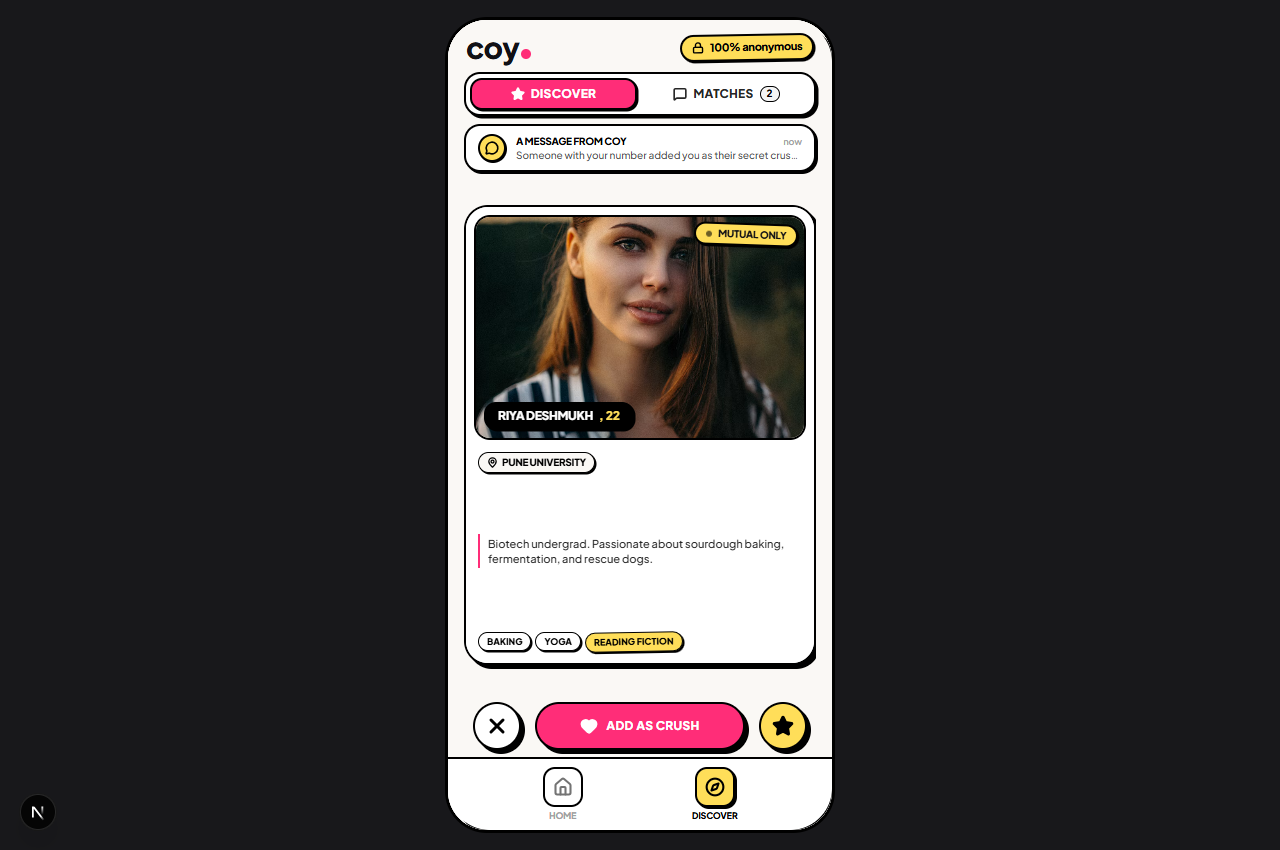
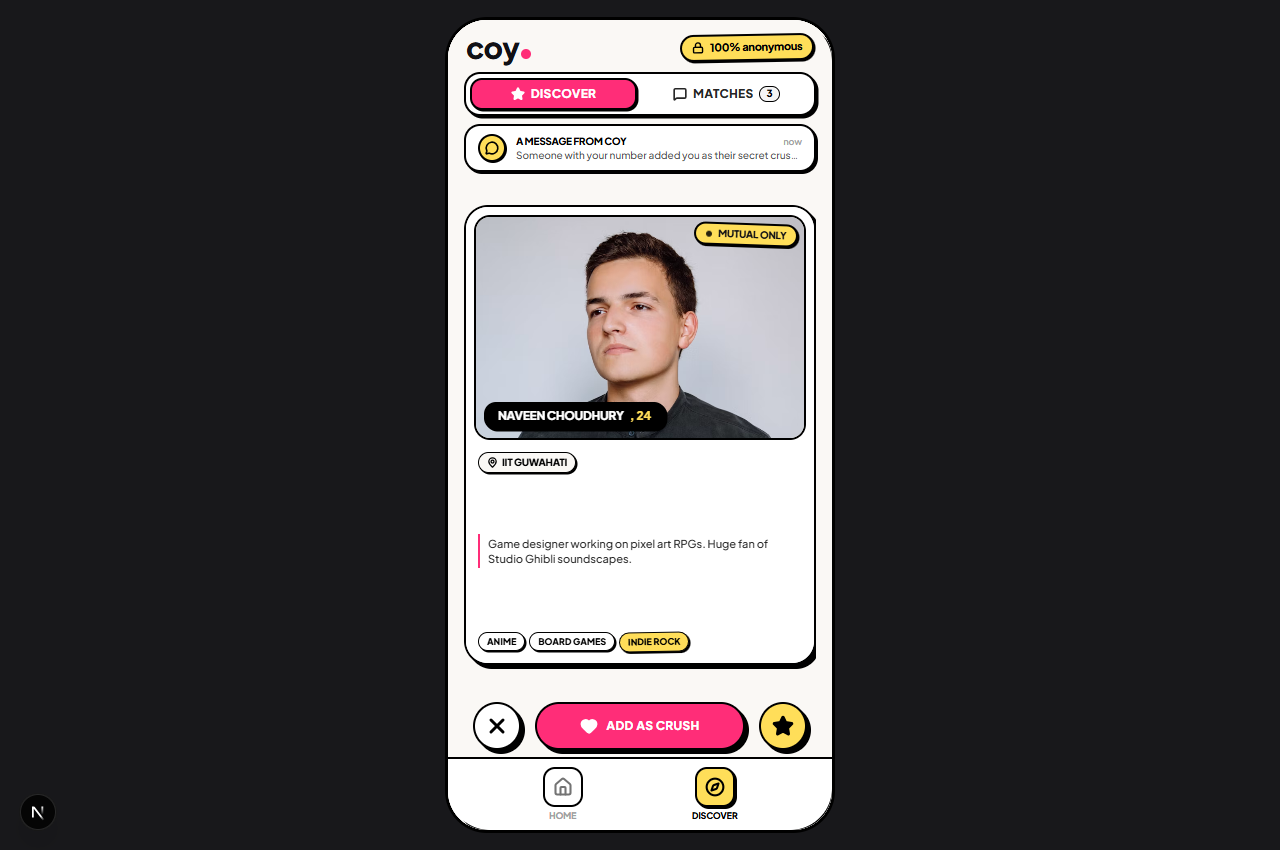
feat(ui): redesign match popup modal matching exact neobrutalist mockup

diff --git a/web/features/discover/components/MatchOverlay.tsx b/web/features/discover/components/MatchOverlay.tsx
@@ -2,22 +2,24 @@
 
 import React, { useEffect, useRef } from "react";
 import { motion, AnimatePresence } from "framer-motion";
-import Image from "next/image";
-import { Heart, Sparkles } from "lucide-react";
+import { Heart, Sparkles, ShieldCheck, MessageSquare } from "lucide-react";
 import type { PublicProfile } from "../types";
 import { MatchParticles } from "./MatchParticles";
+import { DualMatchCards } from "./DualMatchCards";
 import { playMatchCelebrationSound } from "../lib/sound";
 
 interface MatchOverlayProps {
   matchedProfile: PublicProfile | null;
   currentUserPhotoUrl?: string;
+  matchesCount?: number;
   onKeepSwiping: () => void;
   onViewMatches: () => void;
 }
 
 export function MatchOverlay({
   matchedProfile,
-  currentUserPhotoUrl = "https://images.unsplash.com/photo-1535713875002-d1d0cf377fde?w=200&q=80",
+  currentUserPhotoUrl = "https://images.unsplash.com/photo-1539571696357-5a69c17a67c6?w=400&q=80",
+  matchesCount = 2,
   onKeepSwiping,
   onViewMatches,
 }: MatchOverlayProps): React.JSX.Element | null {
@@ -26,7 +28,7 @@ export function MatchOverlay({
   useEffect(() => {
     if (!matchedProfile) return;
     playMatchCelebrationSound();
-    modalRef.current?.querySelector<HTMLButtonElement>("button")?.focus();
+    modalRef.current?.querySelector<HTMLAnchorElement | HTMLButtonElement>("a, button")?.focus();
 
     function handleKeyDown(e: KeyboardEvent) {
       if (e.key === "Escape") onKeepSwiping();
@@ -36,6 +38,10 @@ export function MatchOverlay({
   }, [matchedProfile, onKeepSwiping]);
 
   if (!matchedProfile) return null;
+
+  const firstName = matchedProfile.name.split(" ")[0];
+  const countDisplay = matchesCount > 0 ? matchesCount : 2;
+  const waUrl = `https://wa.me/?text=${encodeURIComponent(`Hey ${firstName}! We just matched on Coy! 🎉`)}`;
 
   return (
     <AnimatePresence>
@@ -47,95 +53,74 @@ export function MatchOverlay({
         initial={{ opacity: 0 }}
         animate={{ opacity: 1 }}
         exit={{ opacity: 0 }}
-        className="absolute inset-0 z-50 flex items-center justify-center p-4 bg-black/85 backdrop-blur-xs"
+        className="absolute inset-0 z-50 flex items-center justify-center p-4 bg-black/80 backdrop-blur-xs"
       >
         <MatchParticles />
 
         <motion.div
-          initial={{ scale: 0.7, y: 30, opacity: 0 }}
+          initial={{ scale: 0.8, y: 25, opacity: 0 }}
           animate={{ scale: 1, y: 0, opacity: 1 }}
-          exit={{ scale: 0.7, opacity: 0 }}
-          transition={{ type: "spring", stiffness: 400, damping: 25 }}
-          className="relative w-full max-w-xs bg-[#FAF8F5] border-[3px] border-black rounded-3xl p-5 flex flex-col items-center text-center shadow-[8px_8px_0px_#000] z-30"
+          exit={{ scale: 0.8, opacity: 0 }}
+          transition={{ type: "spring", stiffness: 420, damping: 24 }}
+          className="relative w-full max-w-[320px] bg-white border-[3px] border-black rounded-3xl p-5 flex flex-col items-center text-center shadow-[6px_6px_0px_#000] z-30"
         >
-          {/* Header Badge */}
+          {/* Top Pill Badge */}
           <motion.div
-            initial={{ scale: 0, rotate: -20 }}
-            animate={{ scale: 1, rotate: 0 }}
-            transition={{ delay: 0.12, type: "spring", stiffness: 450, damping: 20 }}
-            className="w-12 h-12 rounded-2xl bg-coy-pink border-[2.5px] border-black flex items-center justify-center mb-3 shadow-[3px_3px_0px_#000]"
+            initial={{ scale: 0, y: -10 }}
+            animate={{ scale: 1, y: 0 }}
+            transition={{ delay: 0.1, type: "spring", stiffness: 450, damping: 18 }}
+            className="inline-flex items-center gap-1.5 px-3.5 py-1 rounded-full bg-coy-pink border-[2px] border-black shadow-[2.5px_2.5px_0px_#000] text-black font-black text-[10px] tracking-wider uppercase mb-2.5"
           >
-            <Sparkles size={24} strokeWidth={2.5} className="text-white fill-white" />
+            <Sparkles size={13} className="text-black fill-black" />
+            <span>MUTUAL CRUSH UNLOCKED</span>
           </motion.div>
 
-          <motion.h2
-            id="match-heading"
-            initial={{ scale: 0.8, y: -8, opacity: 0 }}
-            animate={{ scale: 1, y: 0, opacity: 1 }}
-            transition={{ delay: 0.18, type: "spring", stiffness: 380, damping: 20 }}
-            className="text-2xl font-black tracking-tight text-black uppercase leading-none mb-1 font-display"
-          >
+          {/* Heading & Subtitle */}
+          <h2 id="match-heading" className="text-xl font-black tracking-tight text-black uppercase leading-tight font-display mb-1">
             IT&apos;S A MATCH! 💥
-          </motion.h2>
-
-          <p className="text-[11px] font-bold text-neutral-600 mb-5">
-            You and <span className="font-black text-black">{matchedProfile.name}</span> both liked each other!
+          </h2>
+          <p className="text-xs font-medium text-neutral-700 leading-snug px-2 mb-3">
+            You and <span className="font-black text-black">{matchedProfile.name}</span> both secretly added each other!
           </p>
 
-          {/* Dual Avatars Collision */}
-          <div className="relative flex items-center justify-center w-full my-1 mb-5">
-            {/* Impact Shockwave Ripple */}
-            <motion.div
-              initial={{ scale: 0.3, opacity: 0.9 }}
-              animate={{ scale: 2.2, opacity: 0 }}
-              transition={{ delay: 0.3, duration: 0.7, ease: "easeOut" }}
-              className="absolute w-16 h-16 rounded-full border-[3px] border-coy-pink pointer-events-none"
-            />
+          {/* Overlapping Dual Cards Collage */}
+          <DualMatchCards
+            currentUserPhotoUrl={currentUserPhotoUrl}
+            matchedPhotoUrl={matchedProfile.photoUrl}
+            matchedName={matchedProfile.name}
+          />
 
-            {/* Left Avatar (You) */}
-            <motion.div
-              initial={{ x: -110, rotate: -15, opacity: 0 }}
-              animate={{ x: 0, rotate: -5, opacity: 1 }}
-              transition={{ type: "spring", stiffness: 460, damping: 22, delay: 0.08 }}
-              className="relative w-20 h-20 rounded-2xl overflow-hidden border-[2.5px] border-black shadow-[3px_3px_0px_#000] z-10"
-            >
-              <Image src={currentUserPhotoUrl} alt="You" fill sizes="80px" className="object-cover" />
-            </motion.div>
-
-            {/* Center Heart Sticker */}
-            <motion.div
-              initial={{ scale: 0, rotate: -180 }}
-              animate={{ scale: 1, rotate: 0 }}
-              transition={{ delay: 0.28, type: "spring", stiffness: 450, damping: 14 }}
-              className="relative z-20 w-10 h-10 rounded-full bg-coy-yellow border-[2.5px] border-black flex items-center justify-center -mx-2.5 shadow-[2px_2px_0px_#000]"
-            >
-              <Heart size={18} strokeWidth={2.8} fill="black" className="text-black" />
-            </motion.div>
-
-            {/* Right Avatar (Match) */}
-            <motion.div
-              initial={{ x: 110, rotate: 15, opacity: 0 }}
-              animate={{ x: 0, rotate: 5, opacity: 1 }}
-              transition={{ type: "spring", stiffness: 460, damping: 22, delay: 0.08 }}
-              className="relative w-20 h-20 rounded-2xl overflow-hidden border-[2.5px] border-black shadow-[3px_3px_0px_#000] z-10"
-            >
-              <Image src={matchedProfile.photoUrl} alt={matchedProfile.name} fill sizes="80px" className="object-cover" />
-            </motion.div>
+          {/* Double-Blind Verified Trust Pill */}
+          <div className="inline-flex items-center gap-1.5 px-3 py-1 rounded-xl bg-white border-[2px] border-black shadow-[2.5px_2.5px_0px_#000] text-[9px] font-black uppercase tracking-wider text-black mt-3 mb-4">
+            <ShieldCheck size={14} className="text-[#10B981] stroke-[2.5]" />
+            <span>100% DOUBLE-BLIND VERIFIED</span>
           </div>
 
           {/* Action Buttons */}
-          <div className="w-full space-y-2">
+          <div className="w-full flex flex-col gap-2.5">
+            <a
+              href={waUrl}
+              target="_blank"
+              rel="noopener noreferrer"
+              className="brutal-btn w-full py-3 px-4 rounded-2xl bg-coy-pink border-[2.5px] border-black text-black font-black text-xs uppercase tracking-wide flex items-center justify-center gap-2 shadow-[3.5px_3.5px_0px_#000] active:translate-x-0.5 active:translate-y-0.5 active:shadow-none focus-visible:ring-2 focus-visible:ring-black"
+            >
+              <MessageSquare size={16} strokeWidth={2.5} className="text-black" />
+              <span>SAY HI ON WHATSAPP</span>
+            </a>
+
             <button
               type="button"
               onClick={onViewMatches}
-              className="brutal-btn w-full py-3 rounded-2xl bg-coy-pink border-[2.5px] border-black text-white font-black text-xs uppercase tracking-wide shadow-[4px_4px_0px_#000] focus-visible:ring-2 focus-visible:ring-black"
+              className="brutal-btn w-full py-3 px-4 rounded-2xl bg-coy-yellow border-[2.5px] border-black text-black font-black text-xs uppercase tracking-wide flex items-center justify-center gap-2 shadow-[3.5px_3.5px_0px_#000] active:translate-x-0.5 active:translate-y-0.5 active:shadow-none focus-visible:ring-2 focus-visible:ring-black"
             >
-              VIEW MATCHES
+              <Heart size={16} strokeWidth={2.5} className="text-black" />
+              <span>VIEW MATCHES ({countDisplay})</span>
             </button>
+
             <button
               type="button"
               onClick={onKeepSwiping}
-              className="brutal-btn w-full py-2.5 rounded-2xl bg-white border-[2.5px] border-black text-black font-black text-xs uppercase tracking-wide shadow-[3px_3px_0px_#000] focus-visible:ring-2 focus-visible:ring-black"
+              className="text-[11px] font-black tracking-widest uppercase text-neutral-800 hover:text-black py-1 mt-0.5 transition-transform active:scale-95 focus-visible:underline"
             >
               KEEP SWIPING
             </button>

diff --git a/web/features/discover/components/DualMatchCards.tsx b/web/features/discover/components/DualMatchCards.tsx
@@ -1,0 +1,60 @@
+"use client";
+
+import React from "react";
+import { motion } from "framer-motion";
+import Image from "next/image";
+import { Heart } from "lucide-react";
+
+interface DualMatchCardsProps {
+  currentUserPhotoUrl: string;
+  matchedPhotoUrl: string;
+  matchedName: string;
+}
+
+export function DualMatchCards({
+  currentUserPhotoUrl,
+  matchedPhotoUrl,
+  matchedName,
+}: DualMatchCardsProps): React.JSX.Element {
+  const firstName = matchedName.split(" ")[0];
+
+  return (
+    <div className="relative flex items-center justify-center w-full h-32 my-1">
+      {/* Left User Card */}
+      <motion.div
+        initial={{ x: -70, rotate: -18, opacity: 0 }}
+        animate={{ x: 0, rotate: -6, opacity: 1 }}
+        transition={{ type: "spring", stiffness: 400, damping: 20, delay: 0.12 }}
+        className="relative w-24 h-32 rounded-2xl overflow-hidden border-[2.5px] border-black bg-neutral-100 shadow-[3px_3px_0px_#000] -mr-3 z-10"
+      >
+        <Image src={currentUserPhotoUrl} alt="You" fill sizes="96px" className="object-cover" priority />
+        <div className="absolute bottom-1.5 left-1/2 -translate-x-1/2 px-2.5 py-0.5 rounded-lg bg-white border-[1.5px] border-black shadow-[1.5px_1.5px_0px_#000] text-[9px] font-black uppercase text-black z-20">
+          YOU
+        </div>
+      </motion.div>
+
+      {/* Center Heart Sticker */}
+      <motion.div
+        initial={{ scale: 0, rotate: -90 }}
+        animate={{ scale: 1, rotate: 0 }}
+        transition={{ delay: 0.25, type: "spring", stiffness: 480, damping: 14 }}
+        className="absolute z-20 w-11 h-11 rounded-full bg-coy-yellow border-[2.5px] border-black flex items-center justify-center shadow-[2.5px_2.5px_0px_#000]"
+      >
+        <Heart size={18} fill="black" strokeWidth={0} className="text-black" />
+      </motion.div>
+
+      {/* Right Matched Profile Card */}
+      <motion.div
+        initial={{ x: 70, rotate: 18, opacity: 0 }}
+        animate={{ x: 0, rotate: 6, opacity: 1 }}
+        transition={{ type: "spring", stiffness: 400, damping: 20, delay: 0.12 }}
+        className="relative w-24 h-32 rounded-2xl overflow-hidden border-[2.5px] border-black bg-neutral-100 shadow-[3px_3px_0px_#000] -ml-3 z-10"
+      >
+        <Image src={matchedPhotoUrl} alt={matchedName} fill sizes="96px" className="object-cover" priority />
+        <div className="absolute bottom-1.5 left-1/2 -translate-x-1/2 px-2.5 py-0.5 rounded-lg bg-white border-[1.5px] border-black shadow-[1.5px_1.5px_0px_#000] text-[9px] font-black uppercase text-black z-20 truncate max-w-[80px]">
+          {firstName}
+        </div>
+      </motion.div>
+    </div>
+  );
+}

diff --git a/web/features/discover/components/index.ts b/web/features/discover/components/index.ts
@@ -5,6 +5,7 @@ export { ActionButtons } from "./ActionButtons";
 export { DiscoverHeader } from "./DiscoverHeader";
 export { MysteryBanner } from "./MysteryBanner";
 export { MatchOverlay } from "./MatchOverlay";
+export { DualMatchCards } from "./DualMatchCards";
 export { MatchesGrid } from "./MatchesGrid";
 export { EmptyState } from "./EmptyState";
 export { SkeletonCard } from "./SkeletonCard";

diff --git a/web/app/(tabs)/discover/page.tsx b/web/app/(tabs)/discover/page.tsx
@@ -124,6 +124,7 @@ export default function DiscoverPage(): React.JSX.Element {
 
       <MatchOverlay
         matchedProfile={latestMatch}
+        matchesCount={matchesCount}
         onKeepSwiping={clearMatch}
         onViewMatches={handleViewMatchesFromOverlay}
       />
